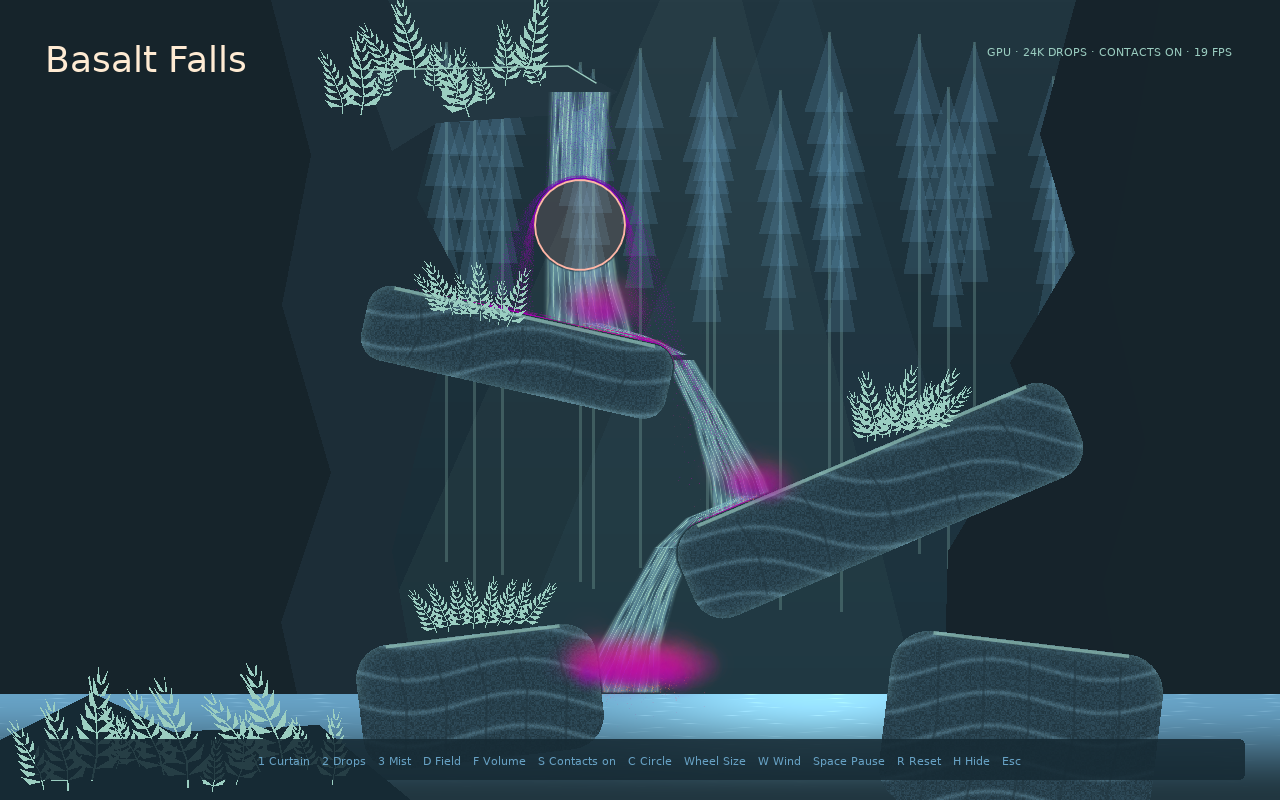
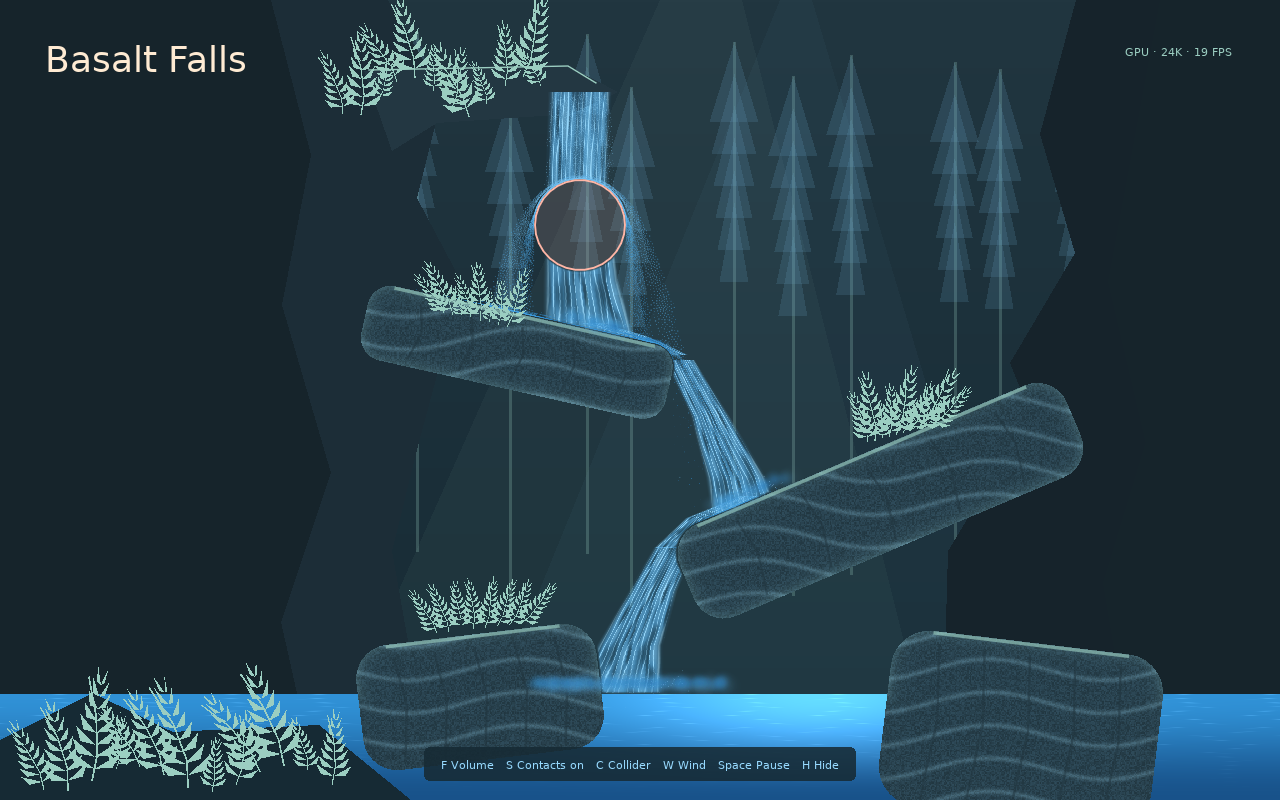
Refine Basalt Falls presentation

diff --git a/examples/waterfall/README.md b/examples/waterfall/README.md
@@ -16,7 +16,7 @@ Three layers make the waterfall:
 
 1. Shader-animated ribbons form the continuous water curtain.
 2. Stateful GPU droplets collide with a signed-distance field containing the rocks and pool surface.
-3. Analytic spray and mist decorate authored impact locations.
+3. Analytic blue spray rises from each impact. Thin mist emitters follow the angle of the ledges and pool instead of floating around point sources.
 
 **F** switches to optional **water volume**. This runs a separate, persistent water grid across the entire scene: water falls from the source, spreads over rocks, fills low areas, and rises as more arrives. It does not require particle self-collision. Place the mouse circle against the right end of the first ledge (around **674, 306**, radius **55**) to obstruct the outlet. Water collects upstream and finds another route; moving the circle releases the obstruction. A circle suspended in open air redirects water around its sides. A temporary pool needs supporting geometry.
 
@@ -33,6 +33,8 @@ The four foreground rocks are solid; the old y=694 artwork surface is excluded. 
 This is a coarse, compressible cellular approximation, not a Navier–Stokes or incompressible-liquid solver. Pressure is approximated by extra mass in filled cells; occupied screen area is therefore not an exact volume measurement. Sloping/mounded surfaces, cell-sized edges, and delayed redistribution are expected under strong inflow. It has no velocity advection, surface tension, particle splashes, or leaf-level water collision. Thin gaps and obstacles smaller than a cell are unresolved. Work scales with grid size and relaxation count, not all pairs of particles; the HUD reports window FPS for the current mode. The existing catch-up cap still slows simulation under load.
 
 **1/2/3** toggle those layers. **D** shows the collision field, **Space** pauses, **R** restarts, **H** hides the HUD, and **Esc** exits. Hidden layers continue to simulate.
+
+The in-scene control strip stays intentionally short. These layer, debug, reset, radius, and exit controls remain available even when they are omitted from the strip.
 
 **S** toggles self-collision for the main droplet stream. Both modes use **24000 slots at 6000 droplets per simulated second**, with the same lifetime, seed, and spawn settings. Self-collision adds a **1.5 px contact radius** and one solver iteration alongside the rock and mouse collisions. Toggling restarts and warms only the droplets; scenery, spray, mist, wind, pause, and layer controls remain as set. **R** preserves the selected self-collision mode. The HUD shows contact status, droplet capacity, emission rate, and window FPS. Live count follows particle lifetimes; 24000 is the buffer capacity. For isolated timings, use the [comparison's S mode](../comparison/README.md).
 
